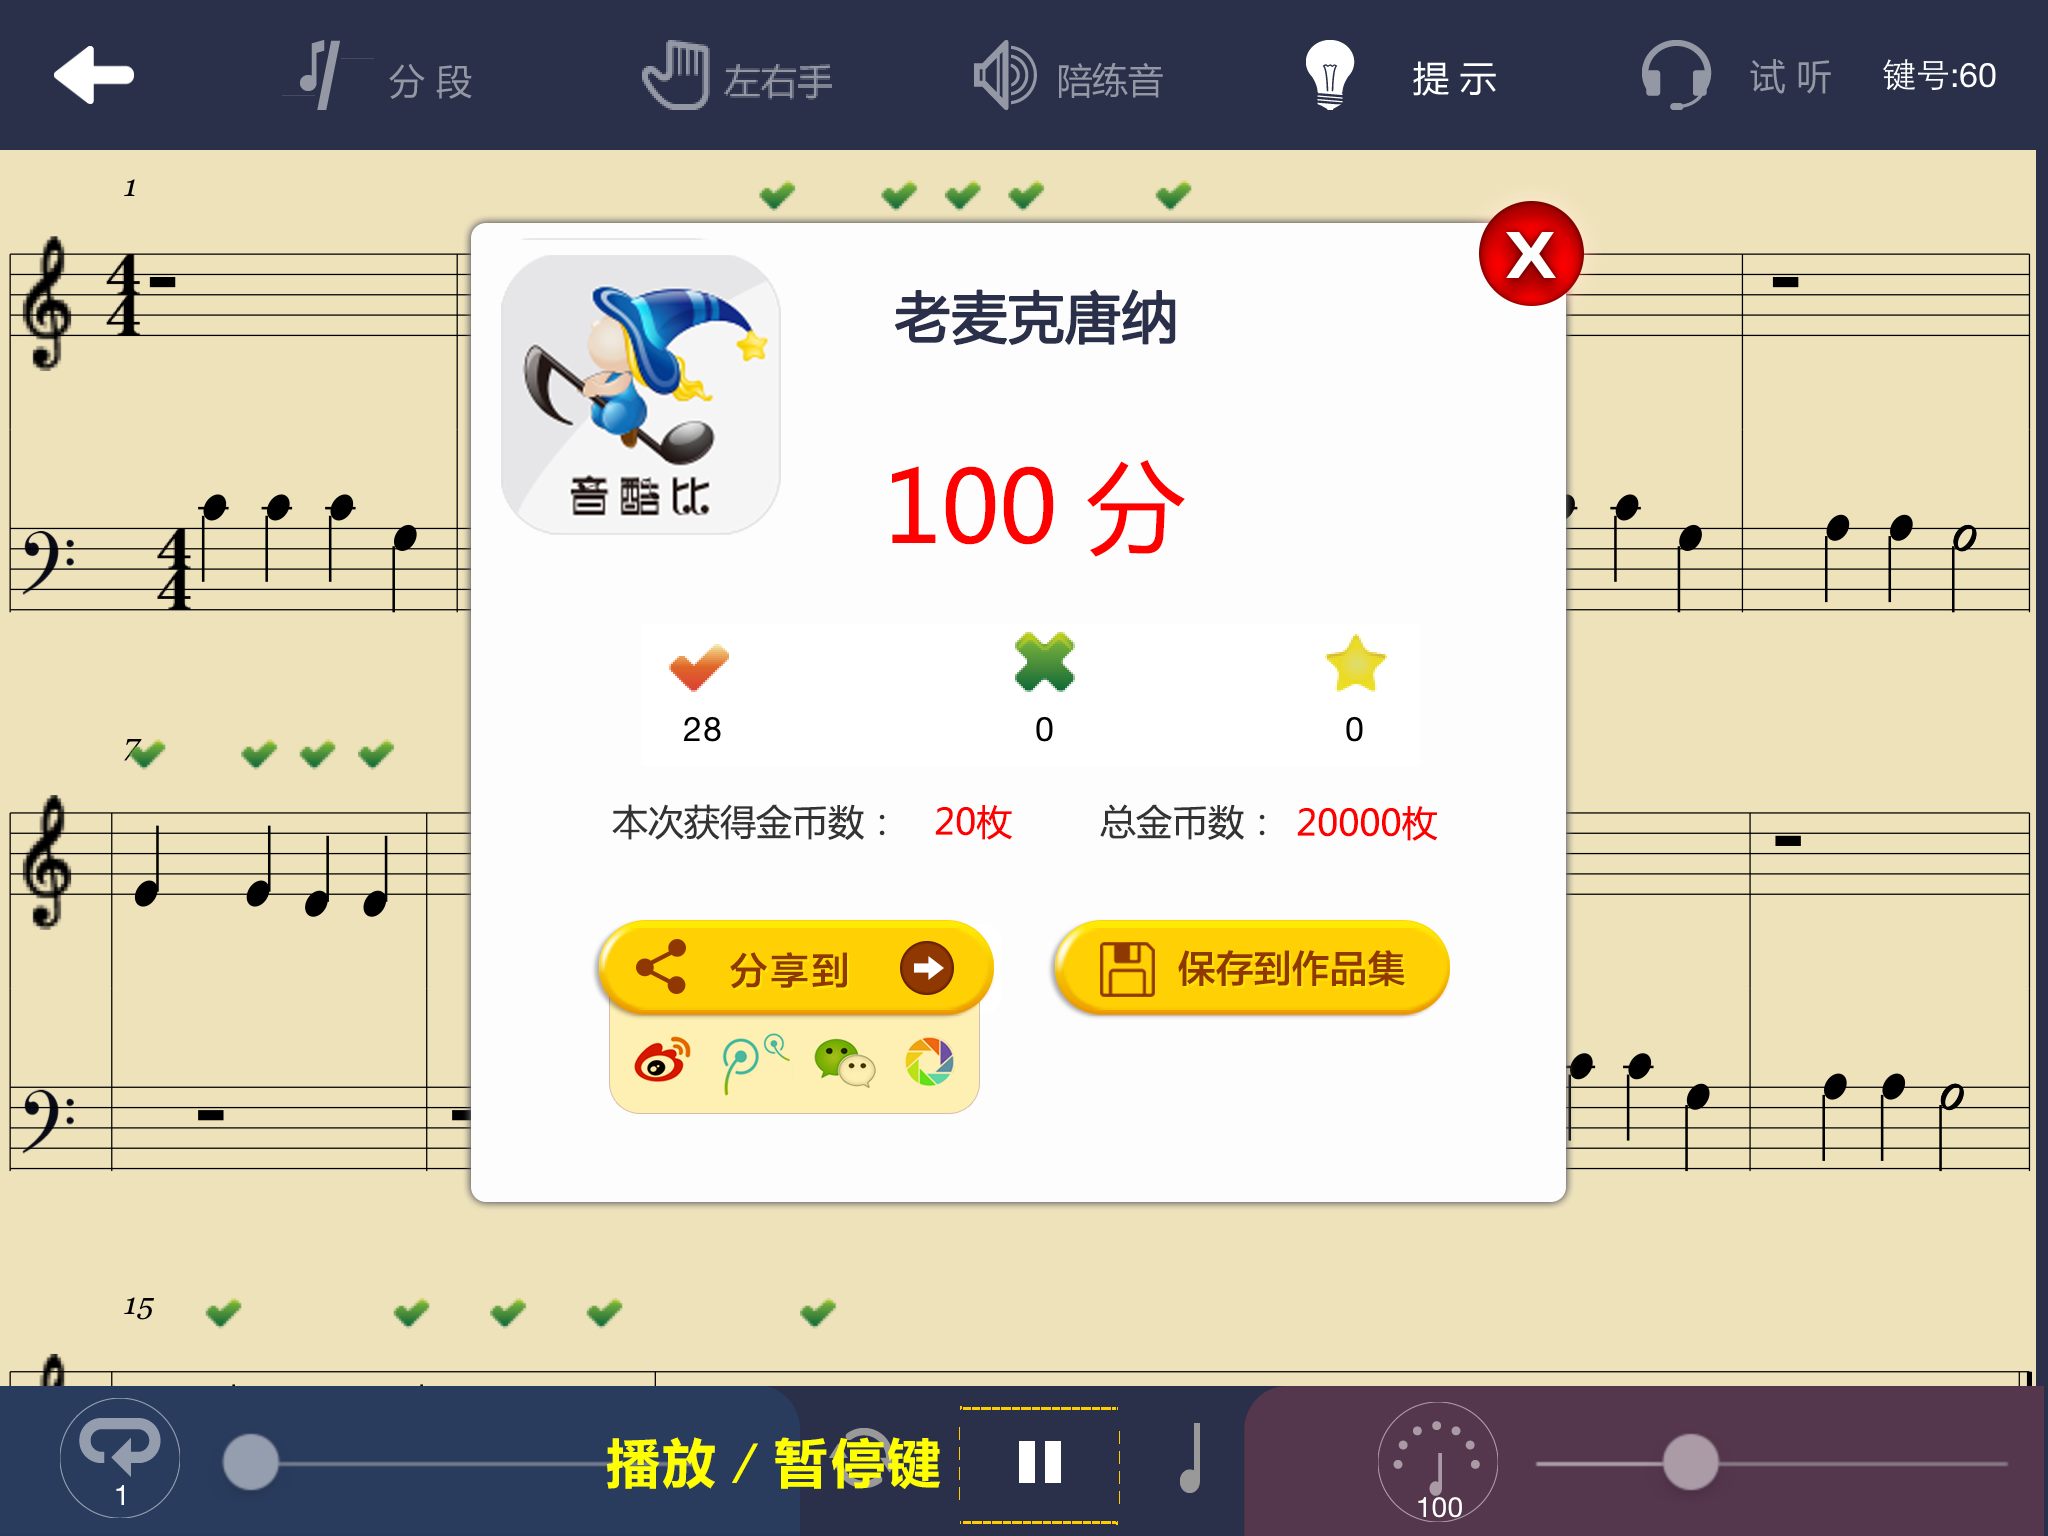
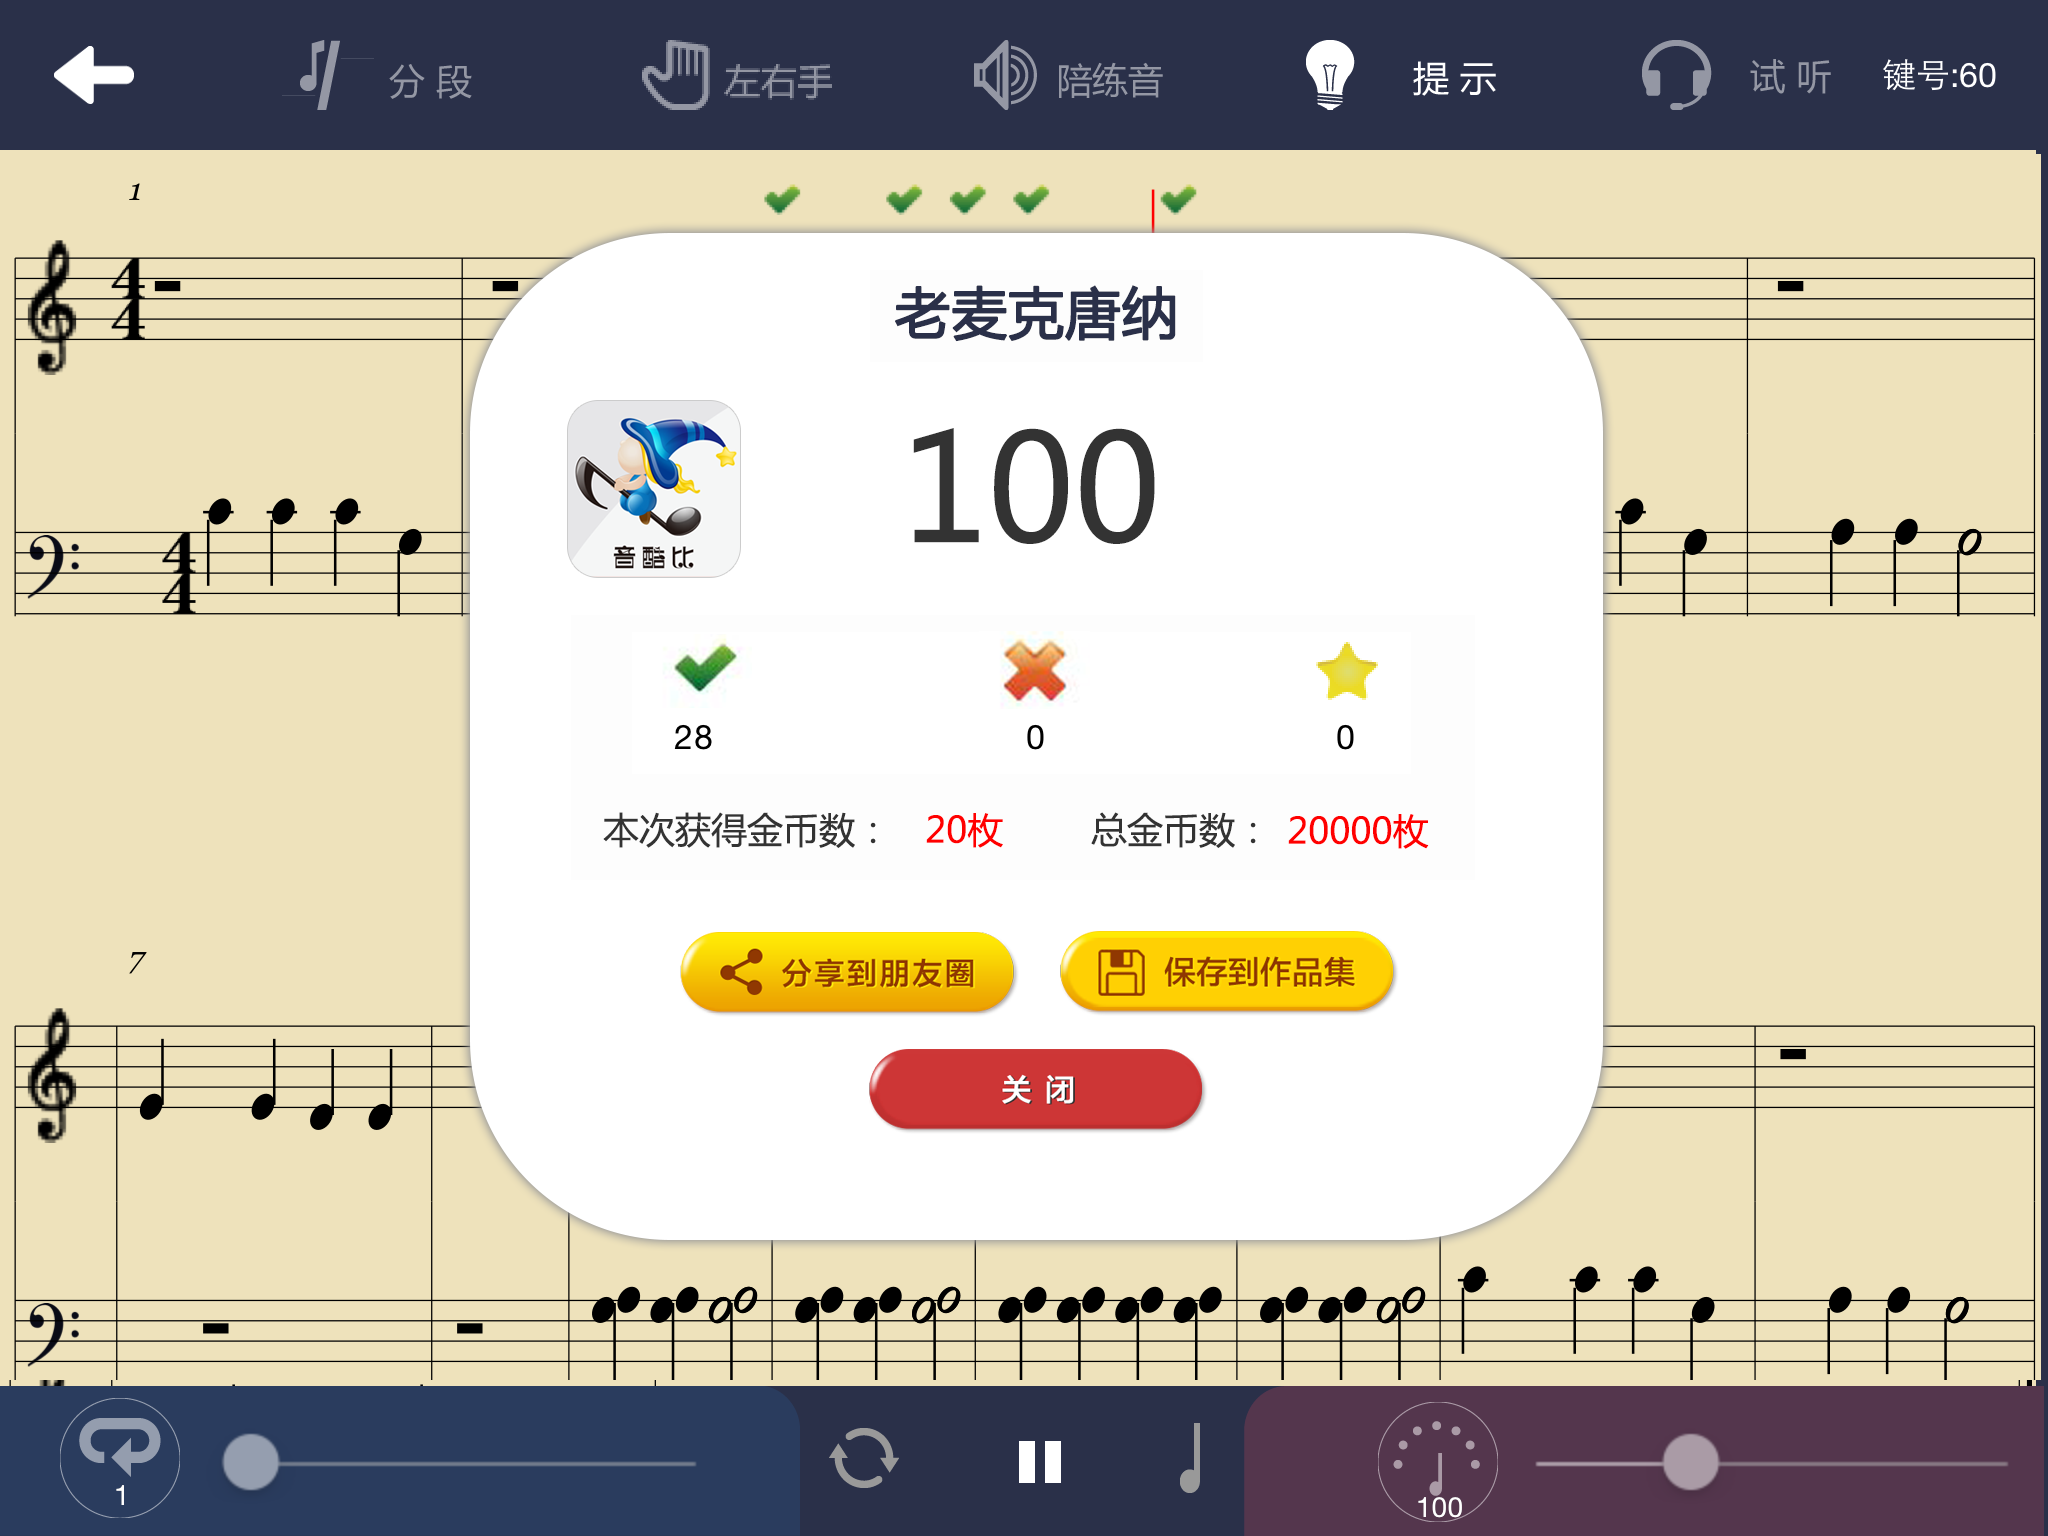
-- 1. 评分页面 2. 使用说明 3. 登录页面

diff --git a/PianoHelp/ScroeViewController.m b/PianoHelp/ScroeViewController.m
@@ -41,7 +41,7 @@
         self.labScroe.text = @"加油";
     }
     else
-        self.labScroe.text = [NSString stringWithFormat:@"%ld分", (long)self.iScore];
+        self.labScroe.text = [NSString stringWithFormat:@"%ld", (long)self.iScore];
     self.labRight.text = [NSString stringWithFormat:@"%ld", (long)self.iRight];
     self.labWrong.text = [NSString stringWithFormat:@"%ld", (long)self.iWrong];
     self.labPerfect.text = [NSString stringWithFormat:@"%ld", (long)self.iGood];
